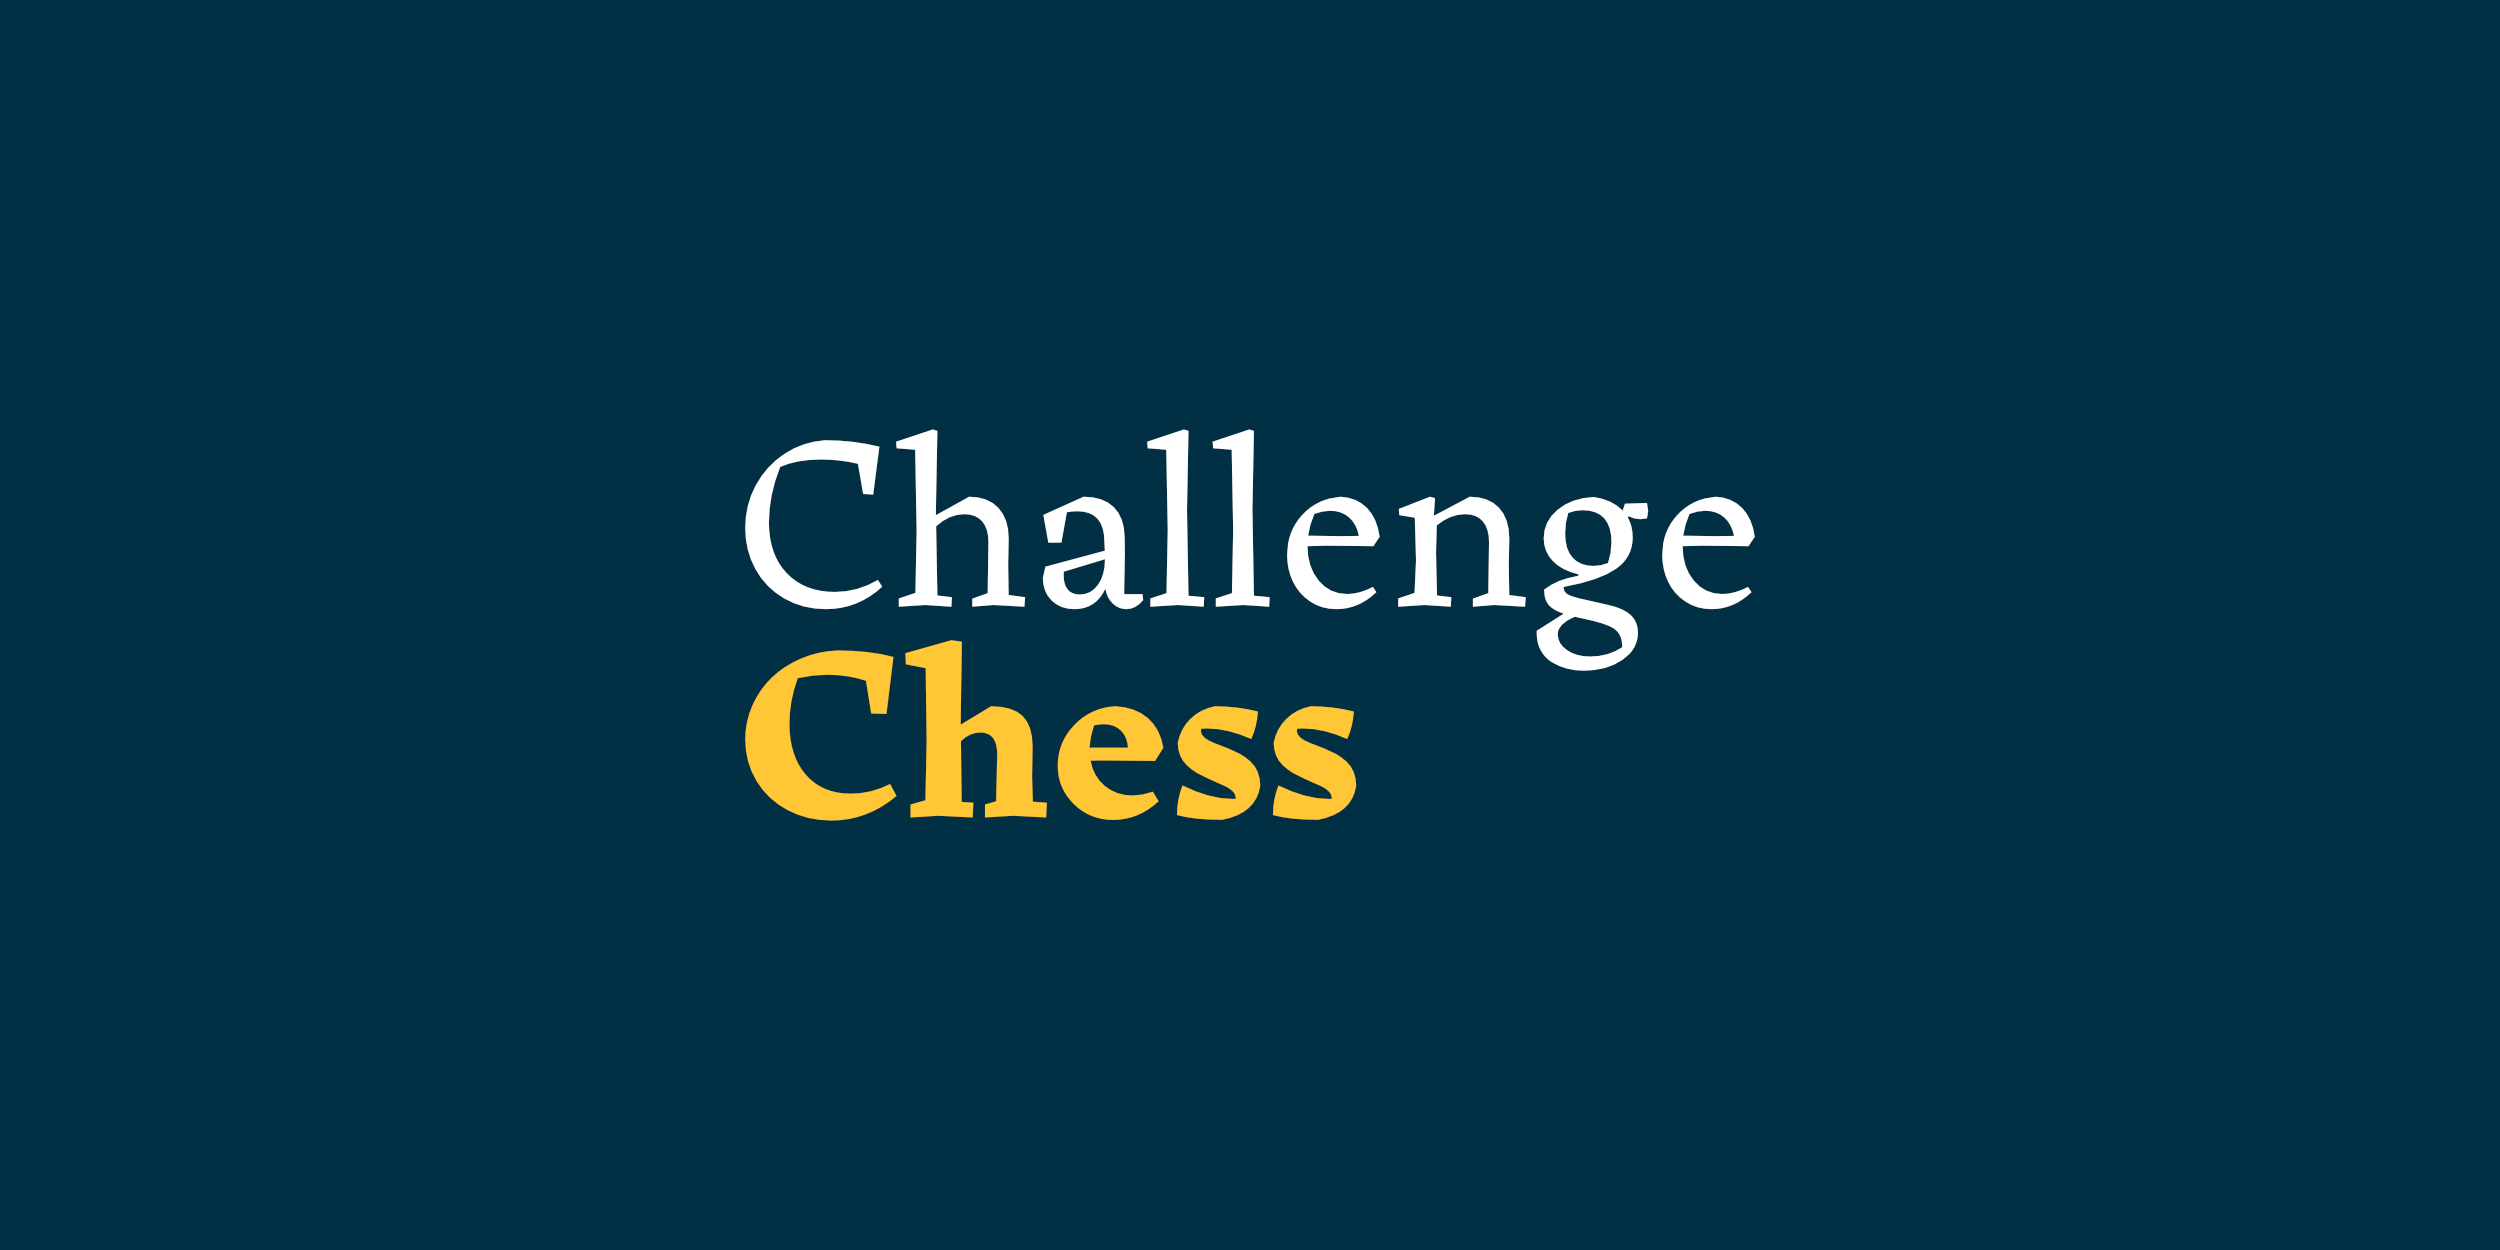
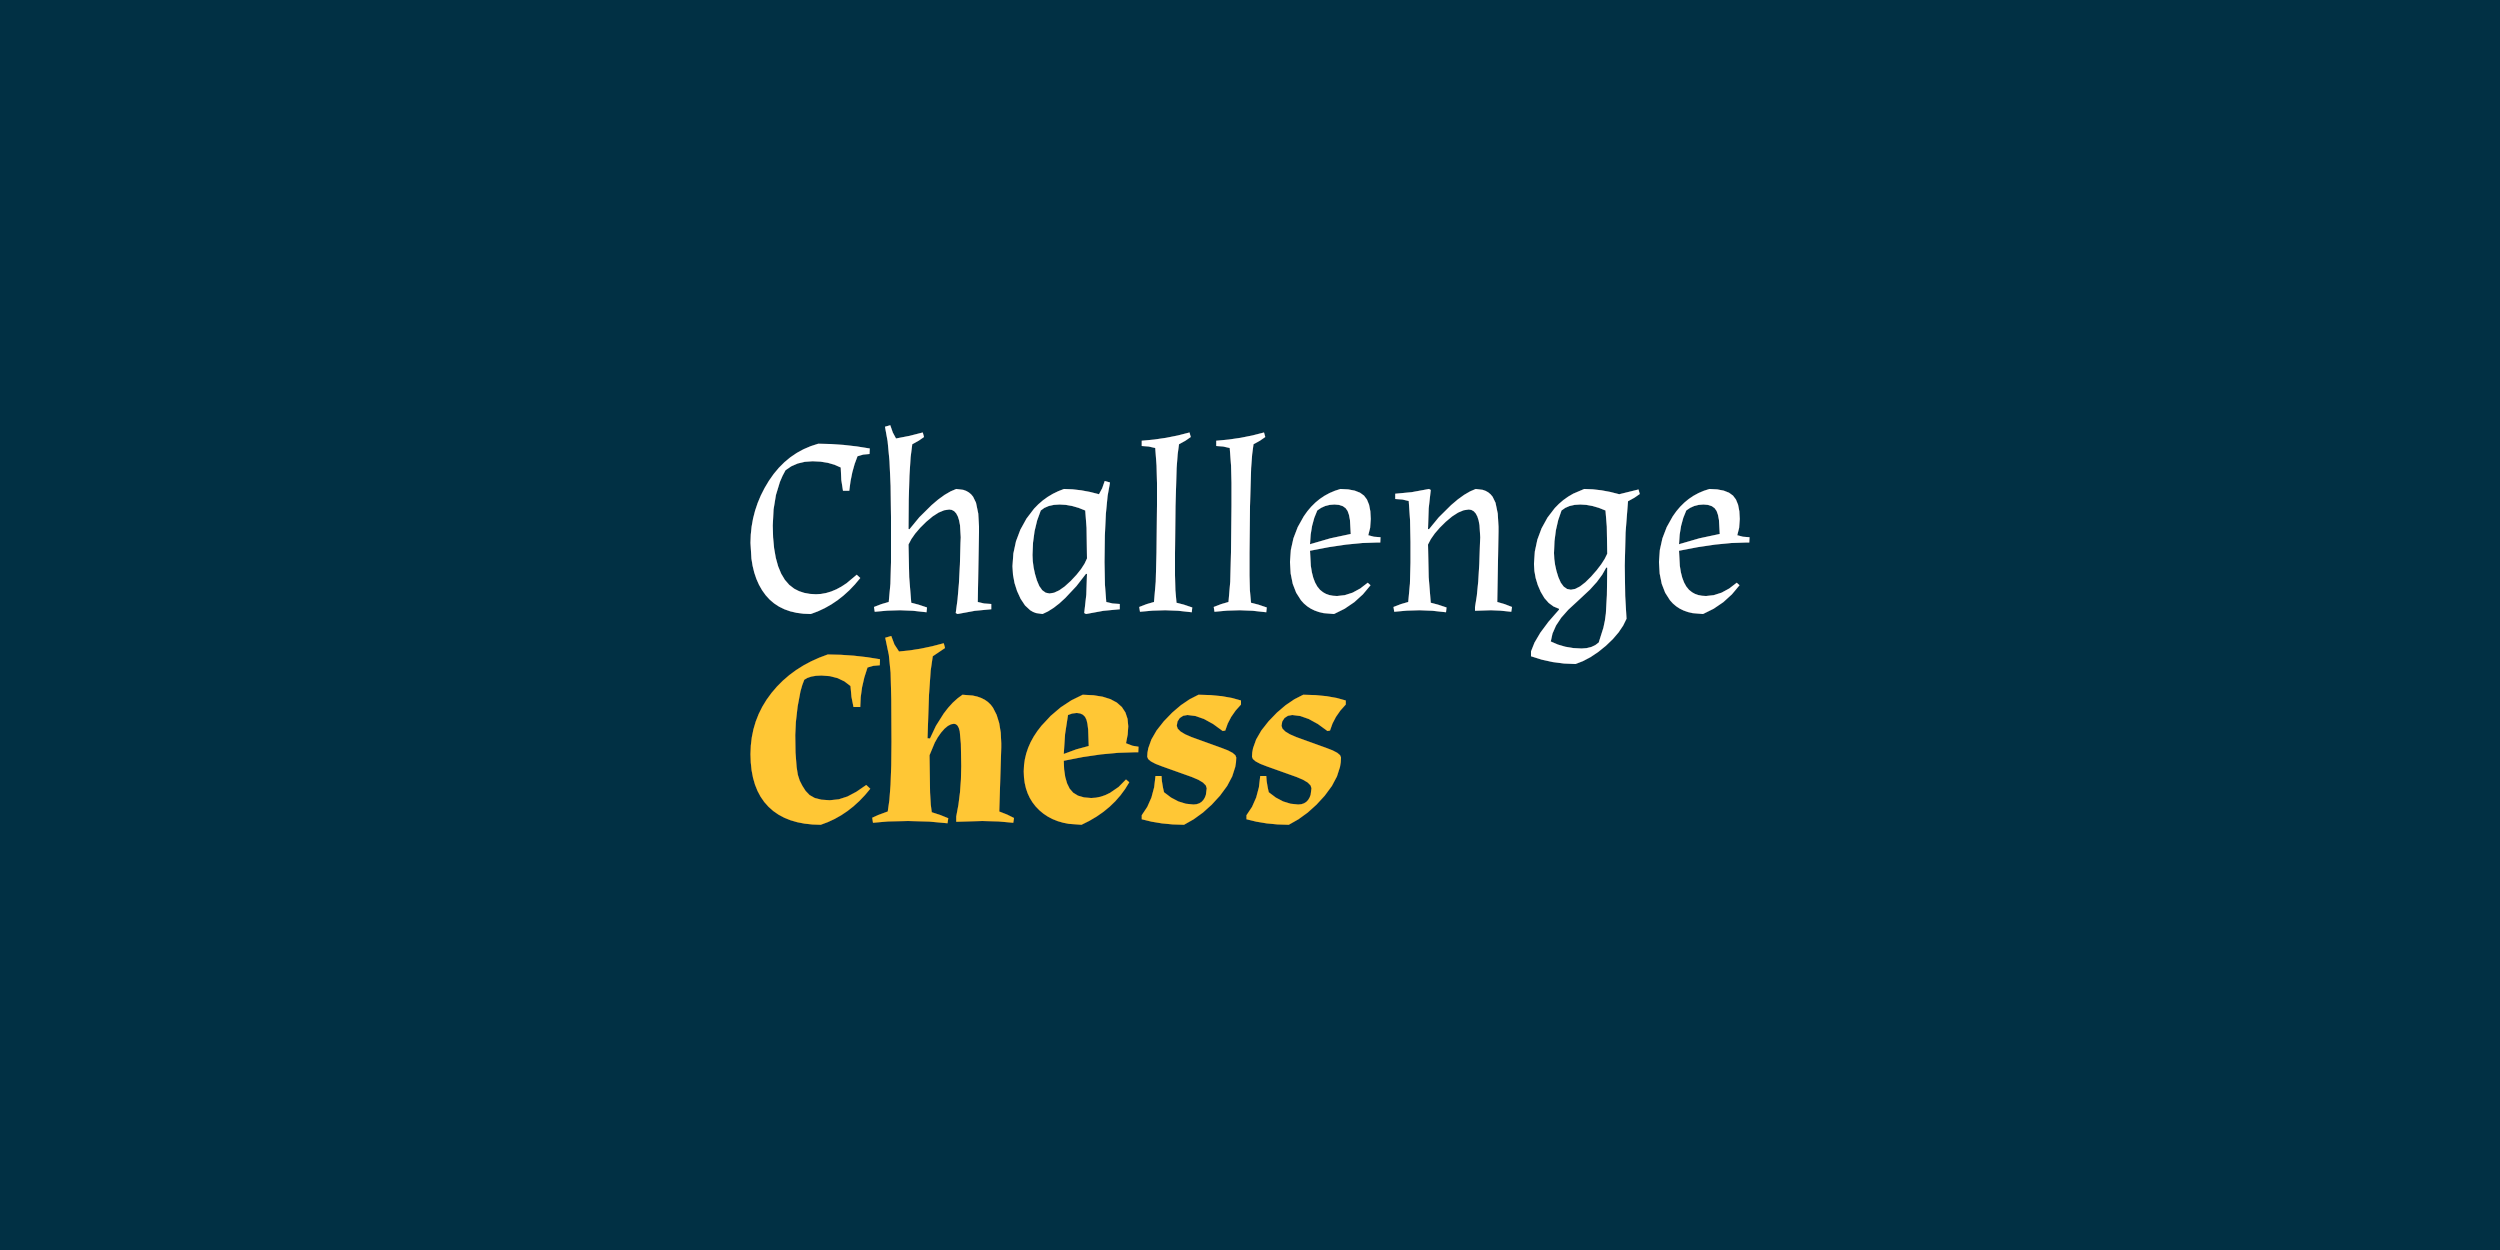
change font and ui improvements

Changed region(s): [[0.2808, 0.3432, 0.7176, 0.6552], [0.2808, 0.3744, 0.312, 0.4368]]

diff --git a/src/index.css b/src/index.css
@@ -1,132 +1,32 @@
-@import url('https://fonts.googleapis.com/css2?family=Josefin+Slab:ital,wght@0,100..700;1,100..700&display=swap');
-
 @font-face {
-    font-family: 'Pliego';
-    src: url('/fonts/Pliego-Bold.eot');
-    src: local('Pliego Bold'), local('Pliego-Bold'),
-        url('/fonts/Pliego-Bold.eot?#iefix') format('embedded-opentype'),
-        url('/fonts/Pliego-Bold.woff2') format('woff2'),
-        url('/fonts/Pliego-Bold.woff') format('woff'),
-        url('/fonts/Pliego-Bold.ttf') format('truetype');
-    font-weight: bold;
-    font-style: normal;
-    font-display: swap;
-}
-
-@font-face {
-    font-family: 'Pliego';
-    src: url('/fonts/Pliego-Medium.eot');
-    src: local('Pliego Medium'), local('Pliego-Medium'),
-        url('/fonts/Pliego-Medium.eot?#iefix') format('embedded-opentype'),
-        url('/fonts/Pliego-Medium.woff2') format('woff2'),
-        url('/fonts/Pliego-Medium.woff') format('woff'),
-        url('/fonts/Pliego-Medium.ttf') format('truetype');
-    font-weight: 500;
-    font-style: normal;
-    font-display: swap;
-}
-
-@font-face {
-    font-family: 'Pliego';
-    src: url('/fonts/Pliego-Book.eot');
-    src: local('Pliego Book'), local('Pliego-Book'),
-        url('/fonts/Pliego-Book.eot?#iefix') format('embedded-opentype'),
-        url('/fonts/Pliego-Book.woff2') format('woff2'),
-        url('/fonts/Pliego-Book.woff') format('woff'),
-        url('/fonts/Pliego-Book.ttf') format('truetype');
-    font-weight: 300;
-    font-style: normal;
-    font-display: swap;
-}
-
-@font-face {
-    font-family: 'Pliego';
-    src: url('/fonts/Pliego-Regular.eot');
-    src: local('Pliego Regular'), local('Pliego-Regular'),
-        url('/fonts/Pliego-Regular.eot?#iefix') format('embedded-opentype'),
-        url('/fonts/Pliego-Regular.woff2') format('woff2'),
-        url('/fonts/Pliego-Regular.woff') format('woff'),
-        url('/fonts/Pliego-Regular.ttf') format('truetype');
+    font-family: 'Almendra';
+    src: url('/fonts/Almendra-Regular.ttf') format('truetype');
     font-weight: normal;
     font-style: normal;
     font-display: swap;
 }
 
 @font-face {
-    font-family: 'Pliego';
-    src: url('/fonts/Pliego-MediumItalic.eot');
-    src: local('Pliego Medium Italic'), local('Pliego-MediumItalic'),
-        url('/fonts/Pliego-MediumItalic.eot?#iefix') format('embedded-opentype'),
-        url('/fonts/Pliego-MediumItalic.woff2') format('woff2'),
-        url('/fonts/Pliego-MediumItalic.woff') format('woff'),
-        url('/fonts/Pliego-MediumItalic.ttf') format('truetype');
-    font-weight: 500;
-    font-style: italic;
-    font-display: swap;
-}
-
-@font-face {
-    font-family: 'Pliego';
-    src: url('/fonts/Pliego-BookItalic.eot');
-    src: local('Pliego Book Italic'), local('Pliego-BookItalic'),
-        url('/fonts/Pliego-BookItalic.eot?#iefix') format('embedded-opentype'),
-        url('/fonts/Pliego-BookItalic.woff2') format('woff2'),
-        url('/fonts/Pliego-BookItalic.woff') format('woff'),
-        url('/fonts/Pliego-BookItalic.ttf') format('truetype');
-    font-weight: 300;
-    font-style: italic;
-    font-display: swap;
-}
-
-@font-face {
-    font-family: 'Pliego';
-    src: url('/fonts/Pliego-BoldItalic.eot');
-    src: local('Pliego Bold Italic'), local('Pliego-BoldItalic'),
-        url('/fonts/Pliego-BoldItalic.eot?#iefix') format('embedded-opentype'),
-        url('/fonts/Pliego-BoldItalic.woff2') format('woff2'),
-        url('/fonts/Pliego-BoldItalic.woff') format('woff'),
-        url('/fonts/Pliego-BoldItalic.ttf') format('truetype');
+    font-family: 'Almendra';
+    src: url('/fonts/Almendra-Bold.ttf') format('truetype');
     font-weight: bold;
-    font-style: italic;
-    font-display: swap;
-}
-
-@font-face {
-    font-family: 'Pliego';
-    src: url('/fonts/Pliego-Italic.eot');
-    src: local('Pliego Italic'), local('Pliego-Italic'),
-        url('/fonts/Pliego-Italic.eot?#iefix') format('embedded-opentype'),
-        url('/fonts/Pliego-Italic.woff2') format('woff2'),
-        url('/fonts/Pliego-Italic.woff') format('woff'),
-        url('/fonts/Pliego-Italic.ttf') format('truetype');
-    font-weight: normal;
-    font-style: italic;
-    font-display: swap;
-}
-
-@font-face {
-    font-family: 'Pliego';
-    src: url('/fonts/Pliego-SemiBoldItalic.eot');
-    src: local('Pliego SemiBold Italic'), local('Pliego-SemiBoldItalic'),
-        url('/fonts/Pliego-SemiBoldItalic.eot?#iefix') format('embedded-opentype'),
-        url('/fonts/Pliego-SemiBoldItalic.woff2') format('woff2'),
-        url('/fonts/Pliego-SemiBoldItalic.woff') format('woff'),
-        url('/fonts/Pliego-SemiBoldItalic.ttf') format('truetype');
-    font-weight: 600;
-    font-style: italic;
-    font-display: swap;
-}
-
-@font-face {
-    font-family: 'Pliego';
-    src: url('/fonts/Pliego-SemiBold.eot');
-    src: local('Pliego SemiBold'), local('Pliego-SemiBold'),
-        url('/fonts/Pliego-SemiBold.eot?#iefix') format('embedded-opentype'),
-        url('/fonts/Pliego-SemiBold.woff2') format('woff2'),
-        url('/fonts/Pliego-SemiBold.woff') format('woff'),
-        url('/fonts/Pliego-SemiBold.ttf') format('truetype');
-    font-weight: 600;
     font-style: normal;
+    font-display: swap;
+}
+
+@font-face {
+    font-family: 'EB Garamond';
+    src: url('fonts/EBGaramond-VariableFont_wght.ttf') format('truetype');
+    font-weight: 400 800;
+    font-style: normal;
+    font-display: swap;
+}
+
+@font-face {
+    font-family: 'EB Garamond';
+    src: url('fonts/EBGaramond-Italic-VariableFont_wght.ttf') format('truetype');
+    font-weight: 400 800;
+    font-style: italic;
     font-display: swap;
 }
 
@@ -138,7 +38,7 @@
 
 	background: var(--bg);
 	color: var(--text);
-	font-family: 'Pliego', 'Josefin Slab';
+	font-family: 'EB Garamond', Arial;
 }
 
 #root {
@@ -153,7 +53,7 @@
 	text-align: center;
 
 	background: var(--fg);
-	border-inline: 4px solid var(--prim);
+	border-inline: 2px solid var(--prim);
 }
 
 body {

diff --git a/src/components/HomePage.tsx b/src/components/HomePage.tsx
@@ -68,13 +68,13 @@ export default function HomePage({ playerId, onGameJoined }: Props) {
 	return (
 		<div style={{ padding: 40 }}>
 			<button onClick={createGame}>Create Game</button>
-			{pendingCode && <p>Share this code: <strong>{pendingCode}</strong></p>}
+			{pendingCode && <p>Code: <strong>{pendingCode}</strong></p>}
 
-			<div style={{ marginTop: 32 }}>
+			<div style={{ marginTop: 32, display: 'flex', gap: '10px', justifyContent: 'center' }}>
 				<input
 					value={code}
 					onChange={e => setCode(e.target.value.toUpperCase())}
-					placeholder="Enter code"
+					placeholder="Enter Code..."
 				/>
 				<button onClick={joinGame}>Join Game</button>
 				{error && <p>{error}</p>}

diff --git a/src/App.css b/src/App.css
@@ -1,5 +1,6 @@
 .title {
 	font-size: xx-large;
+	font-family: Almendra;
 }
 
 .chess {
@@ -11,7 +12,7 @@ button {
 	background: none;
 	border: 1px solid var(--prim);
 	color: var(--prim);
-	font-family: 'Pliego', sans-serif;
+	font-family: inherit;
 	font-size: 1rem;
 	padding: 6px 18px;
 	cursor: pointer;
@@ -26,7 +27,7 @@ input, textarea {
 	background: none;
 	border: 1px solid var(--text);
 	color: var(--text);
-	font-family: 'Pliego', sans-serif;
+	font-family: inherit;
 	font-size: 1rem;
 	padding: 6px 10px;
 }

diff --git a/src/App.tsx b/src/App.tsx
@@ -34,9 +34,7 @@ export default function App() {
 			{screen === 'home' && <HomePage playerId={playerId} onGameJoined={onGameJoined} />}
 			{screen === 'game' && <GamePage gameCode={gameCode} myColor={myColor} />}
 			<footer style={{ marginTop: 'auto', padding: 16, textAlign: 'center' }}>
-				<a href="https://github.com/johnarp/challenge-chess" target="_blank" style={{ color: 'var(--prim)', textDecoration: 'none', fontSize: '0.85rem' }}>
-					GitHub
-				</a>
+				<a href="https://github.com/johnarp/challenge-chess" target='_blank'><i className='fa fa-github' style={{ fontSize: '36px', color: 'var(--prim)' }}></i></a>
 			</footer>
 		</>
 	)

diff --git a/src/components/GamePage.tsx b/src/components/GamePage.tsx
@@ -126,7 +126,7 @@ export default function GamePage({ gameCode, myColor }: Props) {
 
 	return (
 		<div style={{ width: 'min(500px, 95vw)', margin: '0 auto' }}>
-			{!gameOver && <p>{turn === myColor ? 'Your turn' : "Opponent's turn"} — Challenges left: {challengesLeft}</p>}
+			{!gameOver && <p>{turn === myColor ? 'Your Turn' : "Opponent's Turn"} — Challenges Remaining: {challengesLeft}</p>}
 			<p style={{ color: 'var(--prim)', marginTop: -10 }}>Code: {gameCode}</p>
 			{gameOver && (
 				<div style={{ textAlign: 'center' }}>

diff --git a/index.html b/index.html
@@ -22,6 +22,7 @@
 
 	<title>Challenge Chess</title>
 	<link rel="icon" type="image/svg+xml" href="/favicon.svg" />
+	<link rel="stylesheet" href="https://cdnjs.cloudflare.com/ajax/libs/font-awesome/4.7.0/css/font-awesome.min.css">
 </head>
 
 <body>

diff --git a/CHANGELOG.md b/CHANGELOG.md
@@ -1,10 +1,20 @@
 # Changelog
 
+[0.1.5]: https://github.com/johnarp/challenge-chess/releases/tag/v0.1.5
 [0.1.4]: https://github.com/johnarp/challenge-chess/releases/tag/v0.1.4
 [0.1.3]: https://github.com/johnarp/challenge-chess/releases/tag/v0.1.3
 [0.1.2]: https://github.com/johnarp/challenge-chess/releases/tag/v0.1.2
 [0.1.1]: https://github.com/johnarp/challenge-chess/releases/tag/v0.1.1
 [0.1.0]: https://github.com/johnarp/challenge-chess/releases/tag/v0.1.0
+
+## [0.1.5] - 2026-05-14
+
+### Changed
+
+- Fonts
+- GitHub link to an icon
+- Small UI improvements
+- README running locally note
 
 ## [0.1.4] - 2026-05-11
 

diff --git a/README.md b/README.md
@@ -43,6 +43,8 @@ Or, if you wish to play it locally, here are the steps:
 
 > Note: The current setup does not use VITE_ for the AI API key and is server-side. In other words, the AI will not work locally and will fallback to a static random outcome. While this functionality may be added in the future, if you wish to use AI locally as of now, you will have to make changes to the code.
 
+> Note: The judge only works on Vercel, or locally via `vercel dev`. Running `npm run dev` alone will fallback to a static random outcome.
+
 ### 1. Prerequisites
 
 - [Firebase](https://console.firebase.google.com) project with Firestore
@@ -94,7 +96,9 @@ Then share the IP address it gives you.
 - Matchmaking
 - Website icon
 - Ace Attorney-style challenge menu
-- Change how many challenges a player can have
+- Option to change how many challenges a player can have
+- Move list
+- Show captured pieces
 
 ## 📜 Disclaimer
 